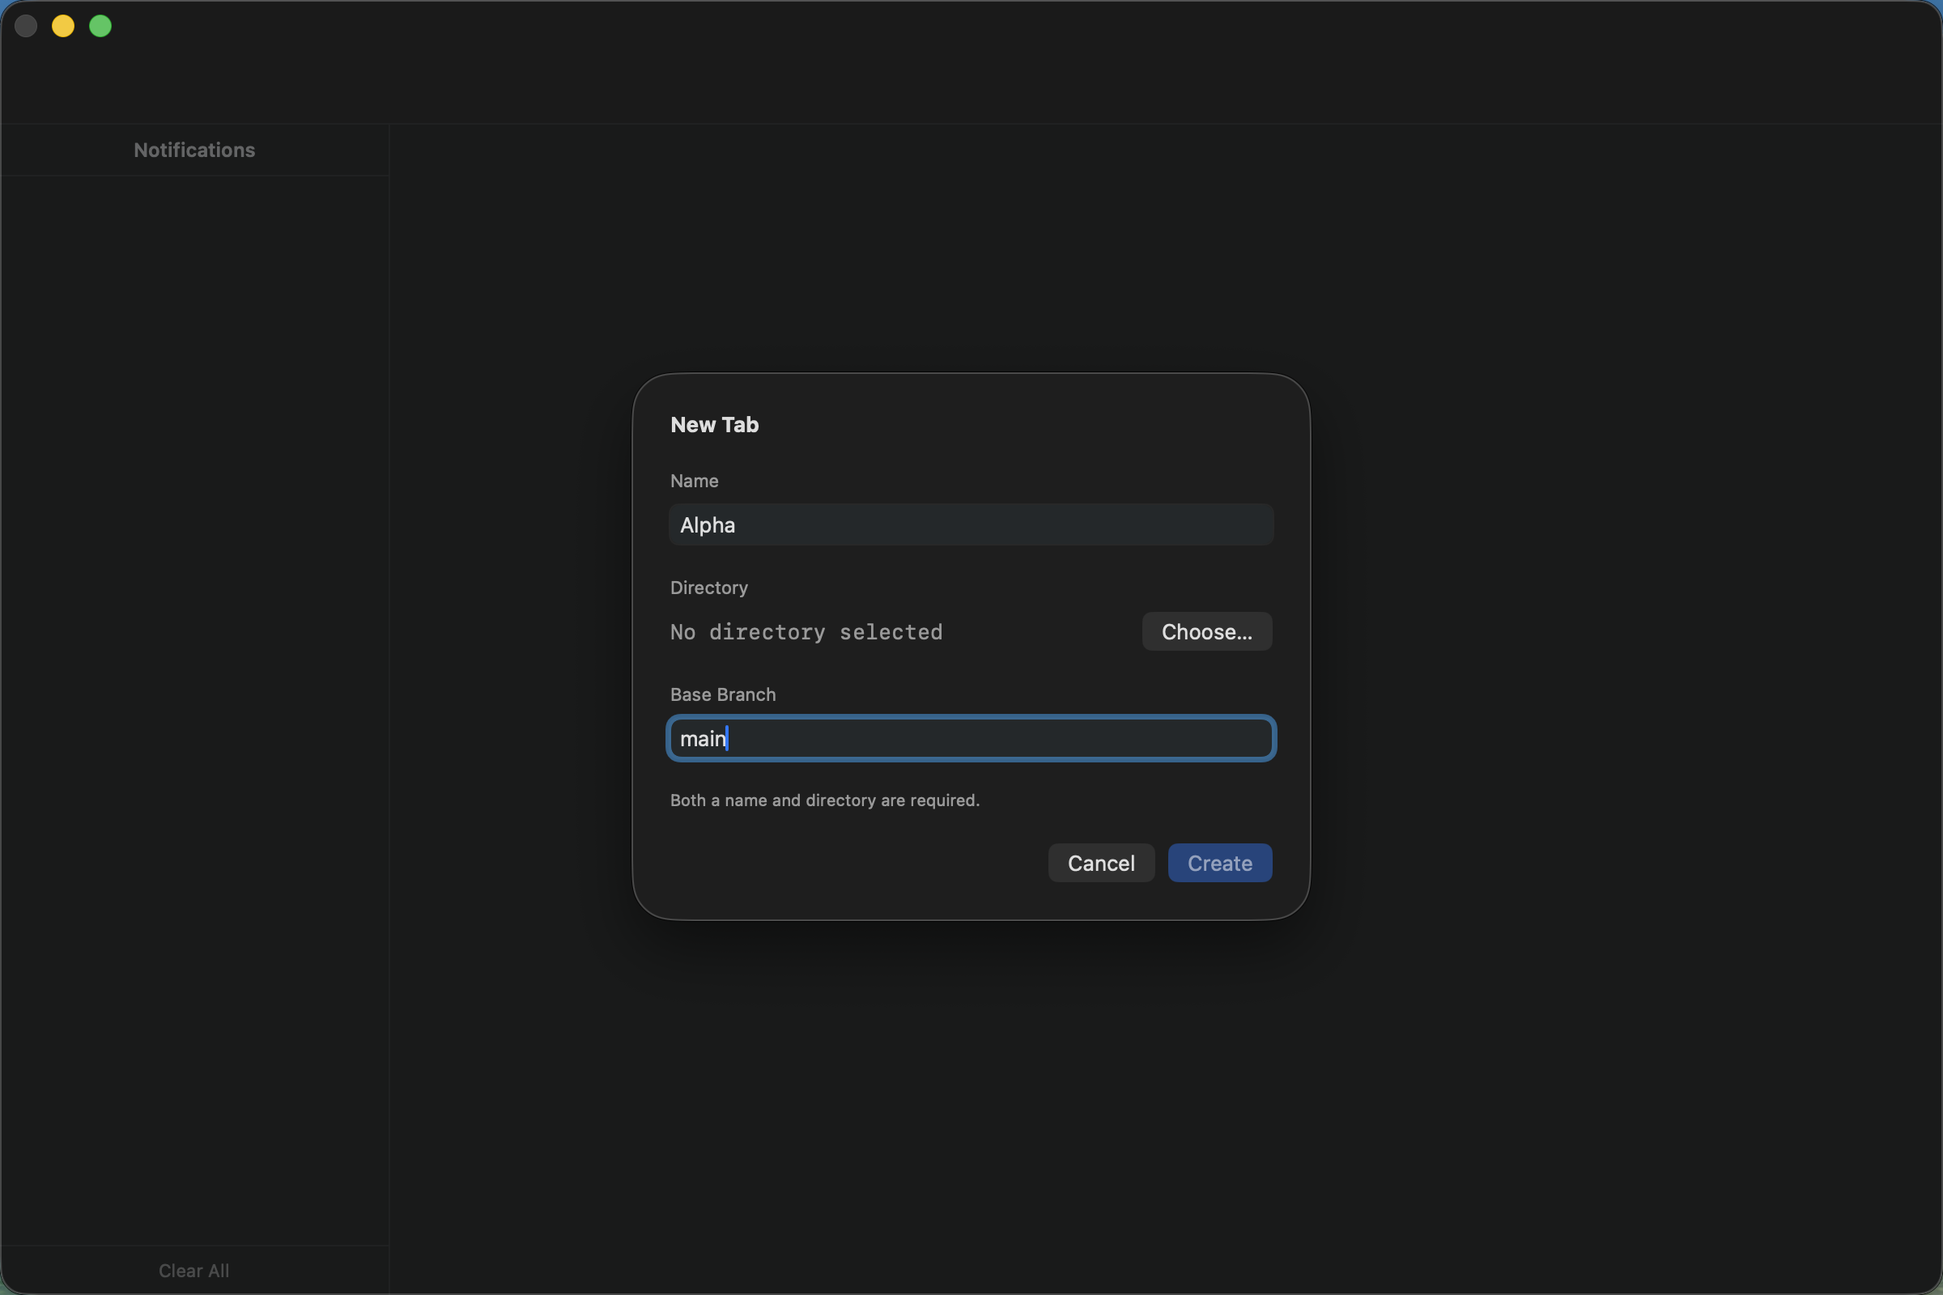
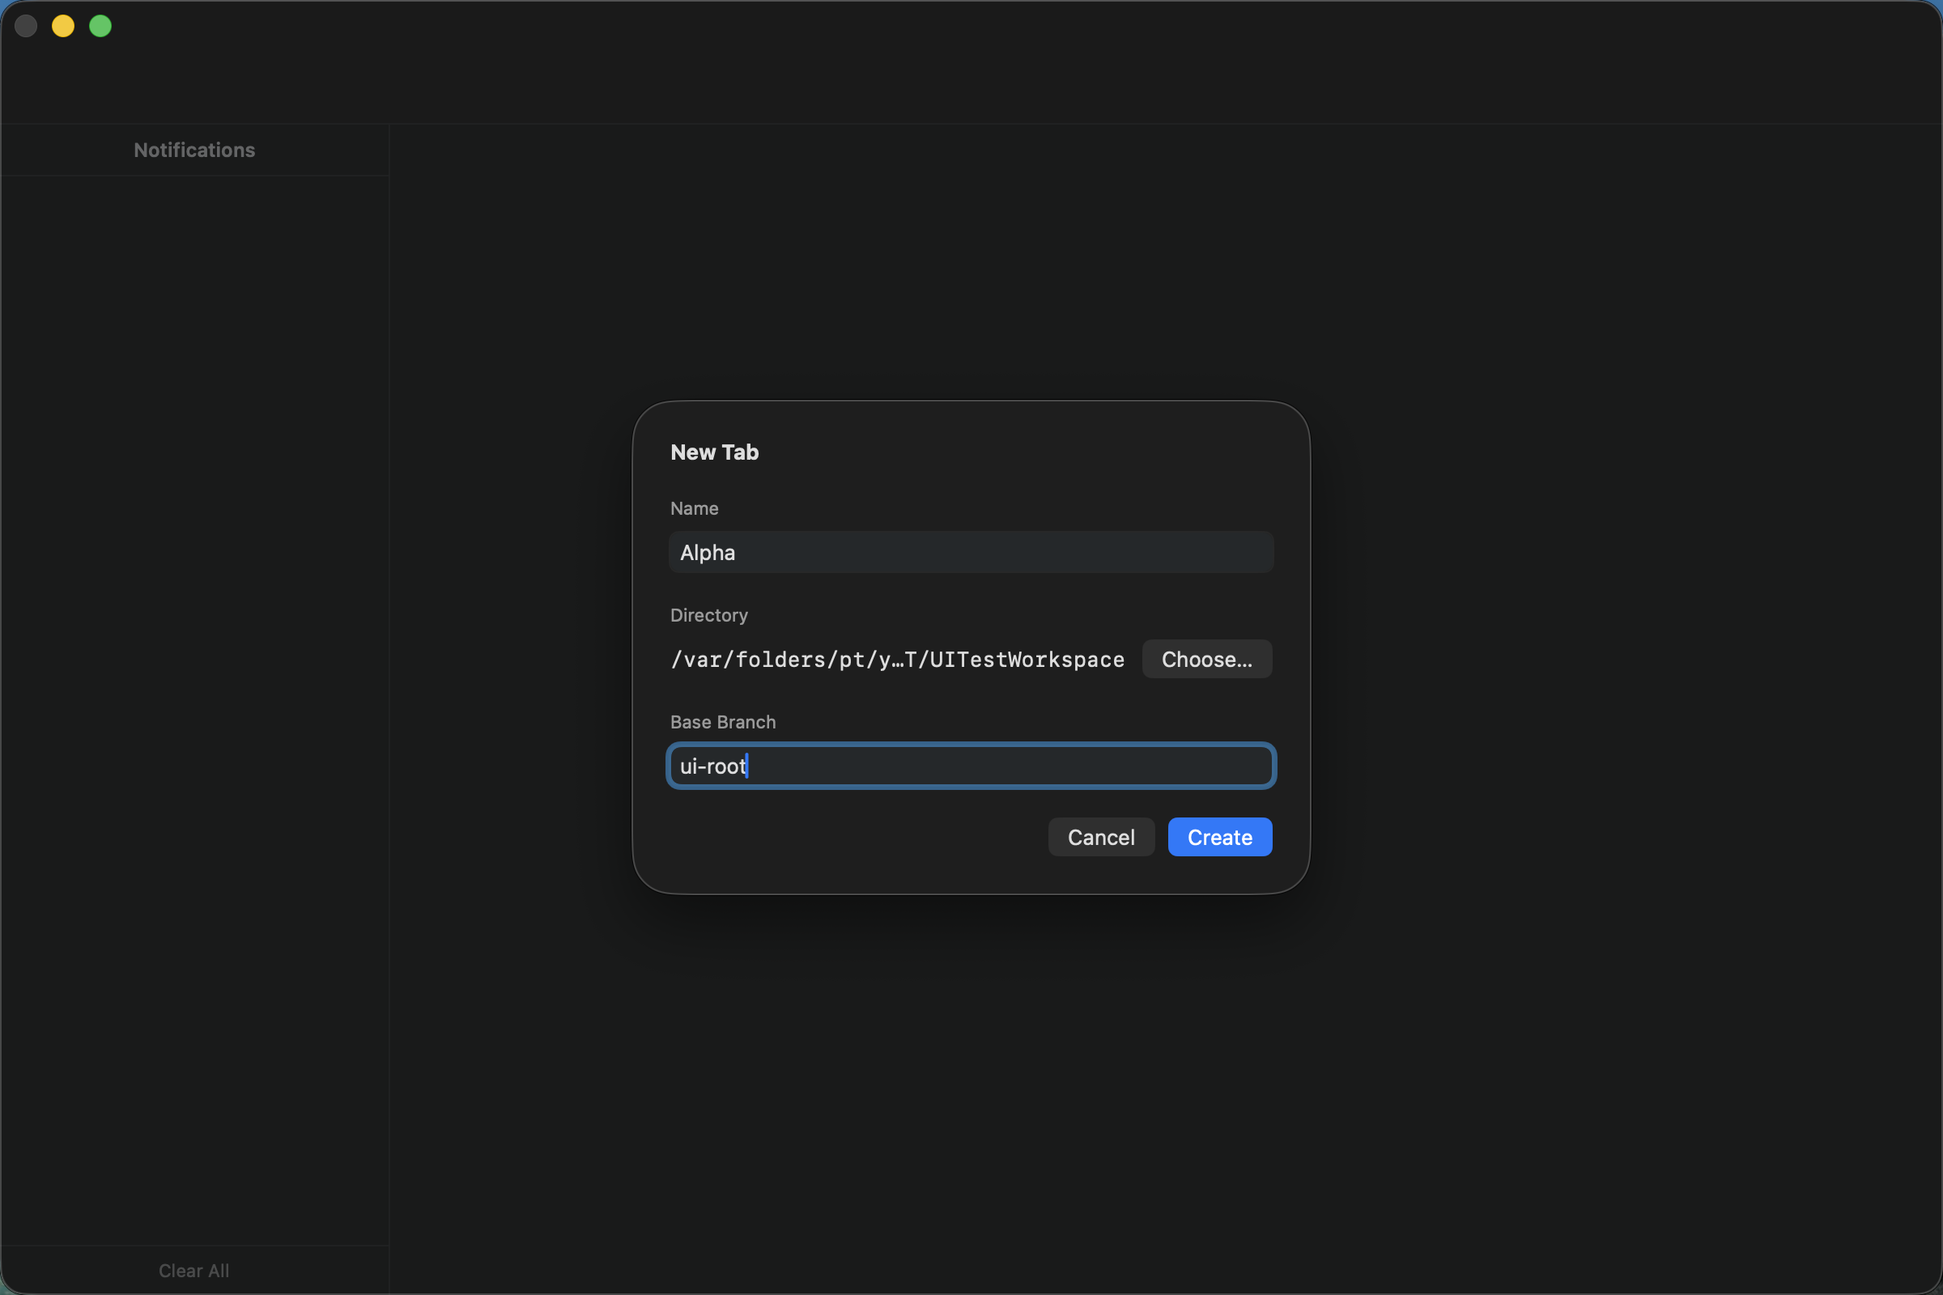
docs: ground user guides in verified screenshots

Changed region(s): [[0.3438, 0.3125, 0.6562, 0.6875]]

diff --git a/UITests/ScreenshotTests.swift b/UITests/ScreenshotTests.swift
@@ -13,14 +13,8 @@ final class ScreenshotTests: BaseTestCase {
     }
 
     override func prepareTestWorkspace() {
-        let workspace = GitUITestWorkspace.directoryURL
-        GitUITestWorkspace.runGitOrFail(["branch", "main"], cwd: workspace)
-        GitUITestWorkspace.runGitOrFail(
-            ["remote", "add", "origin", "https://github.com/test-owner/test-repository.git"],
-            cwd: workspace
-        )
         let support = UITestAppSupport.directory
-        try? Data("{\"isEnabled\":true,\"branchName\":\"main\"}".utf8)
+        try? Data("{\"isEnabled\":true,\"branchName\":\"ui-root\"}".utf8)
             .write(to: support.appending(path: "default-branch.json"))
         try? Data("\"head\"".utf8)
             .write(to: support.appending(path: "worktree-base-ref.json"))
@@ -44,15 +38,35 @@ final class ScreenshotTests: BaseTestCase {
         let baseBranchField = app.textFields["new-tab-base-branch-field"]
         waitFor(baseBranchField)
         baseBranchField.click()
-        baseBranchField.typeText("main")
-        screenshot("new-tab-sheet-filled")
-        baseBranchField.typeKey("a", modifierFlags: .command)
-        baseBranchField.typeKey(.delete, modifierFlags: [])
+        baseBranchField.typeText("ui-root")
         app.buttons["new-tab-choose-dir-button"].click()
-        waitFor(app.buttons["new-tab-create-button"])
-        app.buttons["new-tab-create-button"].click()
+        let createTabButton = app.buttons["new-tab-create-button"]
+        waitFor(createTabButton)
+        screenshot("new-tab-sheet-filled")
+        app.buttons["new-tab-cancel-button"].click()
+        waitForDisappear(app.textFields["new-tab-name-field"])
+        createTab(named: "Alpha")
         waitFor(app.buttons["tab-button-Alpha"].firstMatch)
         screenshot("main-window-tab")
+
+        app.typeKey("p", modifierFlags: .command)
+        let existingWorktreeField = app.textFields["new-pane-name-field"]
+        waitFor(existingWorktreeField)
+        existingWorktreeField.click()
+        existingWorktreeField.typeText("ui-root")
+        app.buttons["new-pane-open-button"].click()
+
+        let takeoverCancel = app.buttons["Cancel"].firstMatch
+        waitFor(takeoverCancel, timeout: 25)
+        screenshot("existing-worktree-prompt")
+        app.buttons["Don't Manage"].firstMatch.click()
+        let primaryPane = app.staticTexts["pane-name-UITestWorkspace"].firstMatch
+        waitFor(primaryPane, timeout: 25)
+        let cancelledPaneClose = app.descendants(matching: .any)
+            .matching(identifier: "pane-close-UITestWorkspace").firstMatch
+        waitFor(cancelledPaneClose, timeout: 10)
+        cancelledPaneClose.click()
+        waitForDisappear(primaryPane, timeout: 10)
 
         app.typeKey("p", modifierFlags: .command)
         waitFor(app.textFields["new-pane-name-field"])
@@ -60,7 +74,38 @@ final class ScreenshotTests: BaseTestCase {
         app.typeKey(.escape, modifierFlags: [])
         waitForDisappear(app.textFields["new-pane-name-field"], timeout: 25)
         createPane(named: "feature-a")
+        createPane(named: "feature-b")
         screenshot("split-panes")
+
+        GitUITestWorkspace.addManagedSecondaryWorktree(
+            folder: "wt-cleanup",
+            newTrackingBranch: "track-wt-cleanup"
+        )
+        createPane(named: "wt-cleanup")
+        app.descendants(matching: .any)
+            .matching(identifier: "pane-close-wt-cleanup").firstMatch.click()
+        let keepWorktree = app.buttons["Keep Worktree"].firstMatch
+        waitFor(keepWorktree, timeout: 10)
+        screenshot("worktree-cleanup-alert")
+        app.windows.firstMatch.buttons["Cancel"].firstMatch.click()
+        waitForDisappear(keepWorktree)
+
+        createTab(named: "Beta")
+        let alphaTab = app.buttons["tab-button-Alpha"].firstMatch
+        let betaTab = app.buttons["tab-button-Beta"].firstMatch
+        waitFor(alphaTab)
+        waitFor(betaTab)
+        alphaTab.click(forDuration: 0.5, thenDragTo: betaTab)
+        XCTAssertLessThan(betaTab.frame.minX, alphaTab.frame.minX)
+
+        alphaTab.click()
+        let firstPane = app.staticTexts["pane-name-feature-a"].firstMatch
+        let secondPane = app.staticTexts["pane-name-feature-b"].firstMatch
+        waitFor(firstPane)
+        waitFor(secondPane)
+        firstPane.click(forDuration: 0.5, thenDragTo: secondPane)
+        XCTAssertLessThan(secondPane.frame.minX, firstPane.frame.minX)
+        screenshot("reordered-tabs-and-panes")
 
         captureSettings()
         captureStatusIndicators()
@@ -146,6 +191,15 @@ final class ScreenshotTests: BaseTestCase {
         let profilesTab = app.descendants(matching: .any).matching(identifier: "settings-sidebar-profiles").firstMatch
         waitFor(profilesTab)
         profilesTab.click()
+        let newProfileButton = app.buttons["New Profile"]
+        waitFor(newProfileButton)
+        newProfileButton.click()
+        let profileNameField = app.textFields["profile-editor-name-field"]
+        waitFor(profileNameField)
+        profileNameField.click()
+        profileNameField.typeText("Docs Profile")
+        app.buttons["Save"].click()
+        waitFor(app.staticTexts["Docs Profile"])
         screenshot("settings-profiles")
 
         let toolsTab = app.descendants(matching: .any).matching(identifier: "settings-sidebar-tools").firstMatch
@@ -173,14 +227,24 @@ final class ScreenshotTests: BaseTestCase {
 
     private func captureStatusIndicators() {
         createTab(named: "Status")
-        createPane(named: "running-pane")
+        createPane(named: "idle-pane")
         waitFor(
             app.descendants(matching: .any)
-                .matching(identifier: "pane-activity-idle-running-pane").firstMatch,
+                .matching(identifier: "pane-activity-idle-idle-pane").firstMatch,
             timeout: 15
         )
         waitFor(app.descendants(matching: .any).matching(identifier: "status-line-row").firstMatch)
         screenshot("pane-status-indicators")
+
+        let shellName = openShellHere(from: "idle-pane")
+        app.staticTexts["pane-name-\(shellName)"].firstMatch.click()
+        app.typeText("printf '\\a'")
+        app.typeKey(.enter, modifierFlags: [])
+        app.staticTexts["pane-name-idle-pane"].firstMatch.click()
+        let notificationSidebar = app.descendants(matching: .any)
+            .matching(identifier: "notification-sidebar").firstMatch
+        waitFor(notificationSidebar, timeout: 10)
+        screenshot("notification-sidebar")
     }
 
     private func captureFocusedPane() {

diff --git a/documentation/features/screenshots.md b/documentation/features/screenshots.md
@@ -4,7 +4,7 @@ The screenshot walkthrough captures the app in one continuous session for docume
 
 ## Coverage
 
-ScreenshotTests captures all 21 views in order:
+ScreenshotTests captures all 25 views in order:
 
 - onboarding-welcome
 - onboarding-shell
@@ -18,6 +18,9 @@ ScreenshotTests captures all 21 views in order:
 - main-window-tab
 - new-pane-sheet
 - split-panes
+- existing-worktree-prompt
+- worktree-cleanup-alert
+- reordered-tabs-and-panes
 - settings-panes
 - settings-notifications
 - settings-profiles
@@ -26,6 +29,7 @@ ScreenshotTests captures all 21 views in order:
 - settings-status-line
 - settings-debug
 - pane-status-indicators
+- notification-sidebar
 - focused-pane
 
 The app launches once and terminates once. Each screenshot is captured after the preceding real UI flow has completed, so later images show the same session continuing through the product.
@@ -44,17 +48,9 @@ This runs only ScreenshotTests and writes PNGs to screenshots/. The directory is
 
 The Makefile passes the absolute worktree screenshots directory through TEST_RUNNER_SCREENSHOTS_OUTPUT_PATH. xcodebuild strips the TEST_RUNNER_ prefix before forwarding the variable to the test process, so simultaneous worktrees write to separate directories.
 
-## Temporary PR provider fixture
-
-The PR sidebar and alert are captured through the normal PRTrackingCoordinator, StatusLineMonitor, AppState notification, and alert paths. For repeatable local runs, the screenshot test temporarily places a generated gh executable first on PATH. It handles only gh api graphql --include --input, returns an open PR initially, and returns the same PR as merged after the test changes its fixture state.
-
-This temporary provider fixture avoids opening or merging an external GitHub PR on every run. It does not fabricate sessions, panes, notification arrays, or view state. It can be removed later without changing the screenshot walkthrough or production PR notification code.
-
 ## Authenticity
 
-Screenshots are produced through one continuous app session and real UI flows. Panes are created through the New Pane sheet, terminal processes run through the normal TerminalController path, terminal attention uses the existing bell handling, and diagnostics use the app-owned trace, invariant, and status-line inputs.
-
-The temporary GitHub provider fixture is the only intentional fake. It is isolated at the external CLI boundary while the app’s production PR transition and notification behavior remain under test.
+Screenshots are produced through one continuous app session and real UI flows. Panes are created through the New Pane sheet, worktree prompts use real Git worktrees, reordering uses real drag gestures, and terminal attention uses the existing bell handling. The walkthrough does not inject sessions, panes, notification arrays, activity states, or GitHub pull-request data.
 
 ## Workflow integration
 

diff --git a/documentation/user-guide/project-isolation.md b/documentation/user-guide/project-isolation.md
@@ -27,6 +27,10 @@ Create a tab for the Git repository you want to work in. Decide whether the pane
 
 When the name does not match an existing checkout or ref, Agent Session Manager creates a separate working copy if **Default Branch** is enabled or the tab has a **Base Branch**. It uses the configured **Starting Point** for that new working copy. If neither setting supplies a branch, the name must resolve to an existing checkout or ref.
 
+![Agent Session Manager New Pane sheet]({{ '/assets/img/docs/new-pane-sheet.png' | relative_url }})
+
+_New Pane keeps the harness, worktree name, priority, CLI options, and environment variables in one flow._
+
 ### Open an existing branch or worktree
 
 1. Open **New Pane**.
@@ -51,9 +55,17 @@ In **Settings → Panes → New Pane**, use **If Branch Exists** to decide wheth
 - **Always** takes over management automatically so the worktree can be cleaned up later.
 - **Never** uses the existing worktree as-is and does not offer cleanup for it.
 
+![Existing worktree management prompt in Agent Session Manager]({{ '/assets/img/docs/existing-worktree-prompt.png' | relative_url }})
+
+_When an external checkout already exists, choose whether Agent Session Manager should manage it._
+
 ## What you should see
 
 The pane opens in the selected working copy, and the agent tool starts there. Other panes can use different task working copies while remaining in the same tab.
+
+![Agent Session Manager pane settings]({{ '/assets/img/docs/settings-panes.png' | relative_url }})
+
+_Pane settings control default branches, starting points, existing-branch behavior, and terminal defaults._
 
 ## If it does not work
 

diff --git a/USER_FACING_DOCS.md b/USER_FACING_DOCS.md
@@ -185,6 +185,16 @@ Reviewers should verify the copy against the current UI and source, confirm that
 - [x] Document GitHub pull-request resolution actions, polling controls, update reminders, and notification persistence.
 - [x] Correct persisted tab-directory restoration for paths containing spaces and add regression coverage before describing restart restoration as reliable.
 
+### Screenshot audit and maintenance
+
+Public screenshots are selective evidence, not decoration. Keep an image when it helps a reader identify a control, understand the workspace relationship, or recognize a visible result. Prefer tables and symptom-led text for shortcuts, restart behavior, individual tool differences, pull-request prerequisites, and troubleshooting.
+
+- [x] Audit every public screenshot for necessity, relevance, accuracy, and a better text or table representation.
+- [x] Recapture misleading states through `UITests/ScreenshotTests.swift` using real tabs, panes, Git worktrees, drag gestures, and terminal attention events.
+- [x] Keep promoted assets under `assets/img/docs/` with descriptive alt text and captions; remove stale or low-value inline images.
+- [x] Keep the screenshot coverage list, renderer ordering, public image references, and generated PNG names synchronized.
+- [x] Do not add injected activity, notification, session, or pull-request state to documentation screenshots.
+
 ### Current feature inventory
 
 Classification is based on the role of each document in the migration, not on whether the existing file is ready to publish:

diff --git a/documentation/user-guide/tool-options.md b/documentation/user-guide/tool-options.md
@@ -38,9 +38,9 @@ Text options without presets remain text fields. Options with presets use a sing
 
 Options marked **Show** appear in the selected tool’s **CLI Options** section in **New Pane**. Options marked **Default on** start enabled there. Custom flags and environment variables are saved with the tool configuration and can be included in profiles.
 
-![Agent Session Manager Harnesses settings showing CLI options]({{ '/assets/img/docs/settings-tools.png' | relative_url }})
+![Agent Session Manager New Pane showing harness-specific CLI options]({{ '/assets/img/docs/new-pane-sheet.png' | relative_url }})
 
-_Use the Harnesses settings to control which options appear during pane creation._
+_The selected harness controls which CLI options appear during pane creation._
 
 ## If it does not work
 

diff --git a/documentation/user-guide/profiles.md b/documentation/user-guide/profiles.md
@@ -46,9 +46,9 @@ The first profile in the list that matches the selected harness is preselected w
 
 The profile appears in **Settings → Profiles** and in the **Profile** picker in **New Pane**. Options marked **Show on new pane** appear for editing; other saved options remain hidden while they are applied.
 
-![Agent Session Manager Profiles settings]({{ '/assets/img/docs/settings-profiles.png' | relative_url }})
+![Agent Session Manager Profiles settings with a saved profile]({{ '/assets/img/docs/settings-profiles.png' | relative_url }})
 
-_Profiles are managed from the Profiles section of Settings._
+_Profiles are managed from the Profiles section of Settings and can be reused in New Pane._
 
 ## If it does not work
 

diff --git a/documentation/user-guide/quickstart.md b/documentation/user-guide/quickstart.md
@@ -33,9 +33,9 @@ Agent Session Manager prepares the working copy and opens a pane for the selecte
 
 _The empty state provides the shortcut for creating the first tab._
 
-![Agent Session Manager New Tab sheet with a name and base branch]({{ '/assets/img/docs/new-tab-sheet-filled.png' | relative_url }})
+![Agent Session Manager New Tab sheet with a project directory and base branch]({{ '/assets/img/docs/new-tab-sheet-filled.png' | relative_url }})
 
-_New Tab accepts the project name and optional base branch before creation._
+_New Tab is ready to create after the project directory and optional base branch are set._
 
 ![Agent Session Manager New Pane sheet]({{ '/assets/img/docs/new-pane-sheet.png' | relative_url }})
 

diff --git a/documentation/user-guide/tabs-and-panes.md b/documentation/user-guide/tabs-and-panes.md
@@ -61,7 +61,7 @@ The tab bar remains at the top of the window, and panes appear below it in a gri
 
 For Claude Code panes, **Auto Session Name** can pass the tab and pane names to Claude so the session is easier to find when you resume it. Open **Settings → Panes → Terminal** to enable or disable it. If you add a manual **Session Name** option in **Settings → Harnesses → CLI Options**, the manual value takes precedence.
 
-![Agent Session Manager with two panes in a tab]({{ '/assets/img/docs/split-panes.png' | relative_url }})
+![Agent Session Manager with two panes in one tab]({{ '/assets/img/docs/split-panes.png' | relative_url }})
 
 _Each pane has its own header, terminal area, and status line._
 

diff --git a/documentation/user-guide/activity-indicators.md b/documentation/user-guide/activity-indicators.md
@@ -34,6 +34,10 @@ Focusing a pane clears its notification. A tab shows the strongest state among i
 
 Each tab and pane keeps an indicator, including when it is idle. The focused pane remains identifiable even when Focus Pane hides the other panes.
 
+![Agent Session Manager notification sidebar beside panes]({{ '/assets/img/docs/notification-sidebar.png' | relative_url }})
+
+_The notification sidebar stays aligned with the tab and pane indicators._
+
 ## If it does not work
 
 - If indicators are missing, enable **Show Activity Indicators** in **Settings → Panes → Activity Indicators**.

diff --git a/documentation/user-guide/worktree-cleanup.md b/documentation/user-guide/worktree-cleanup.md
@@ -37,6 +37,10 @@ When **Ask** is selected and you close a managed pane:
 - Choose **Keep Worktree** to close the pane while leaving the working copy available to reopen.
 - Choose **Cancel** to leave the pane open.
 
+![Managed worktree cleanup prompt in Agent Session Manager]({{ '/assets/img/docs/worktree-cleanup-alert.png' | relative_url }})
+
+_Closing a managed pane gives you an explicit choice to keep, delete, or cancel._
+
 ## What you should see
 
 Closing an unmanaged external checkout simply closes the pane. Closing a managed working copy follows the selected cleanup behavior.

diff --git a/documentation/user-guide/notifications.md b/documentation/user-guide/notifications.md
@@ -50,6 +50,10 @@ The sidebar shows the pane and tab associated with each pending notification. Cl
 
 _Notifications settings control banners, tool completion alerts, and sidebar behavior._
 
+![Agent Session Manager notification sidebar]({{ '/assets/img/docs/notification-sidebar.png' | relative_url }})
+
+_The sidebar occupies a fixed rail beside the active tab's panes._
+
 ## If it does not work
 
 - If in-app notifications appear but macOS banners do not, allow notifications for the correct Agent Session Manager app in **System Settings → Notifications**.

diff --git a/documentation/user-guide/overview.md b/documentation/user-guide/overview.md
@@ -23,7 +23,7 @@ You need a Mac running macOS 14 or later. To start an agent pane, you also need 
 
 After launch, the main window provides a tab bar and a pane area. When no tab is open, the empty state tells you to press ⌘T to create one.
 
-![Agent Session Manager showing a tab with two panes]({{ '/assets/img/docs/split-panes.png' | relative_url }})
+![Agent Session Manager showing two panes in one tab]({{ '/assets/img/docs/split-panes.png' | relative_url }})
 
 _The main window keeps related agent sessions together in one tab._
 
